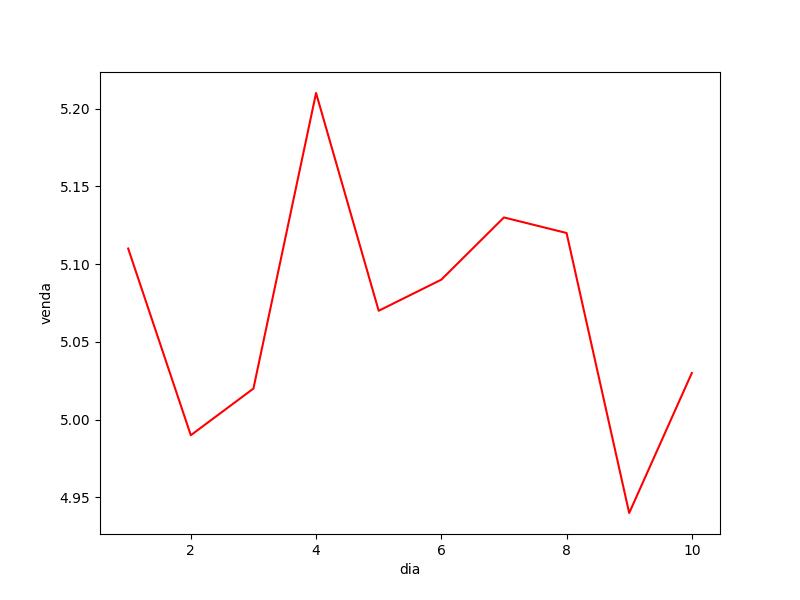
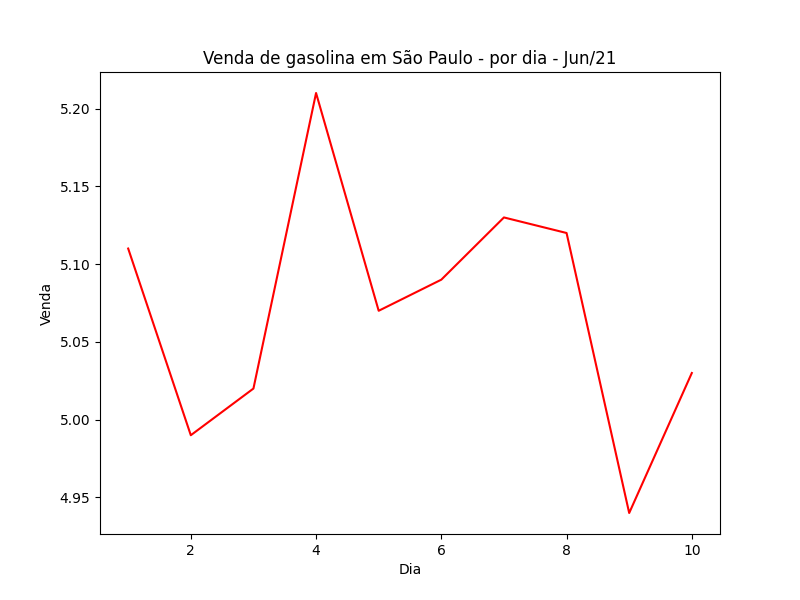
arquivos enviados para desenvolvimento Exercicio M19

Changed region(s): [[0.25, 0.09, 0.7812, 0.12], [0.0312, 0.48, 0.0625, 0.54], [0.5, 0.93, 0.5312, 0.96]]

diff --git a/gasolina.py b/gasolina.py
@@ -3,4 +3,4 @@ import seaborn as sns
 import matplotlib.pyplot as plt
 df=pd.read_csv('gasolina.csv',delimiter=',')
 plt.figure(figsize=(8,6))
-sns.lineplot(data=df,x='dia',y='venda',color='red')
+sns.lineplot(data=df,x='dia',y='venda',color='red').set(title='Venda de gasolina em São Paulo - por dia - Jun/21',xlabel='Dia',ylabel='Venda')
